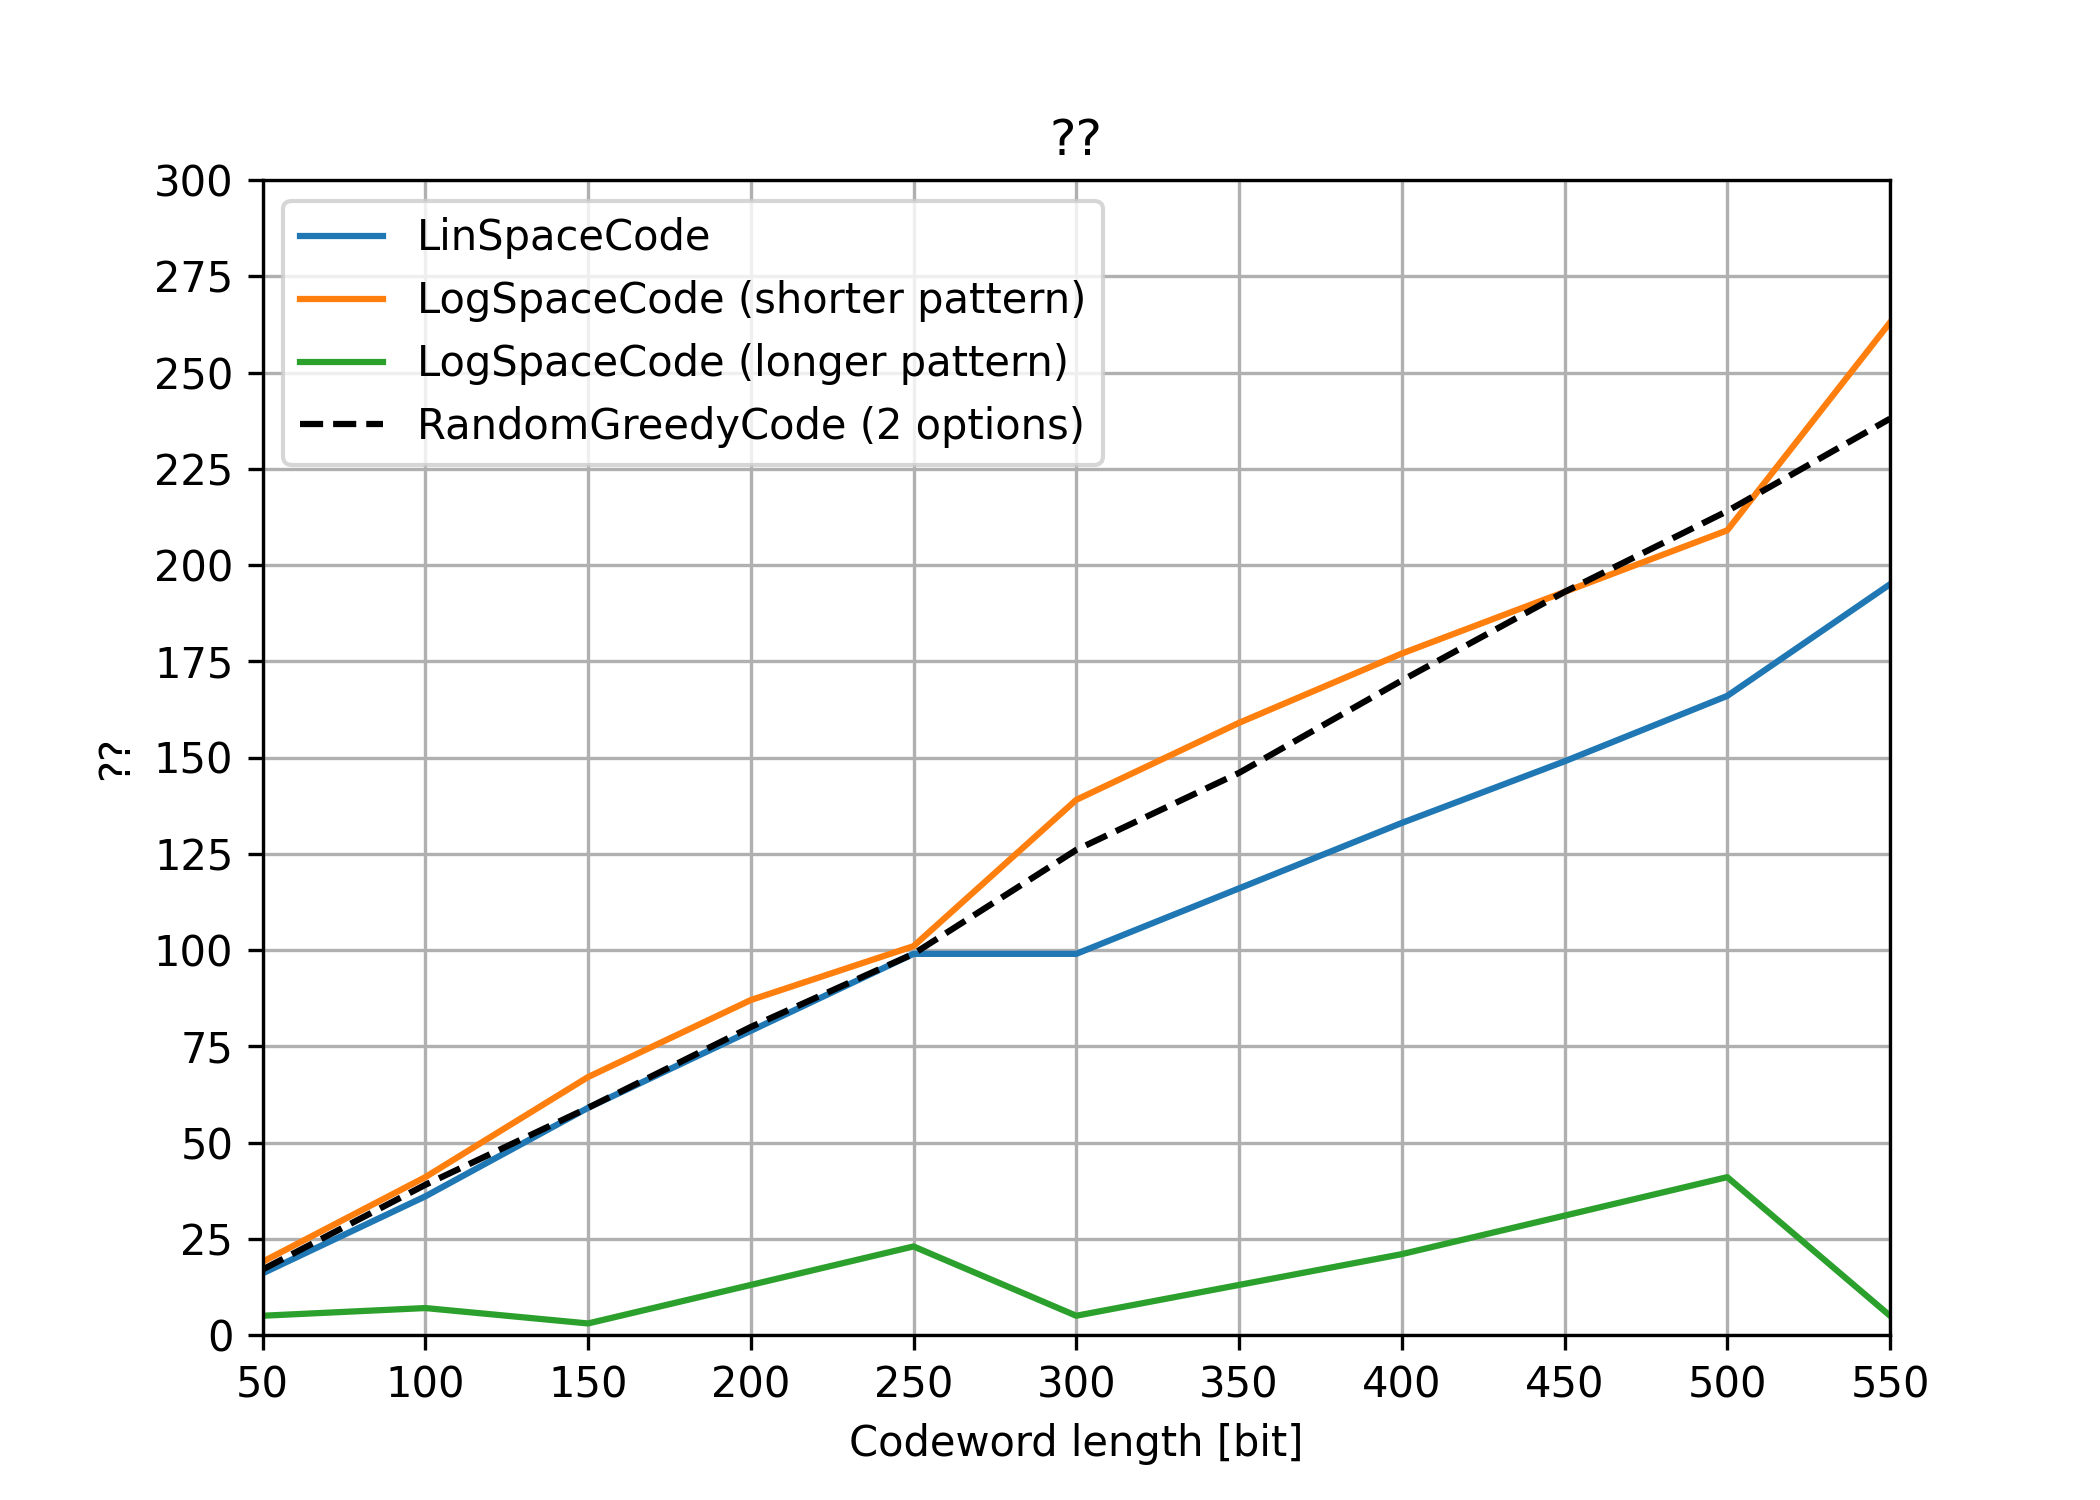
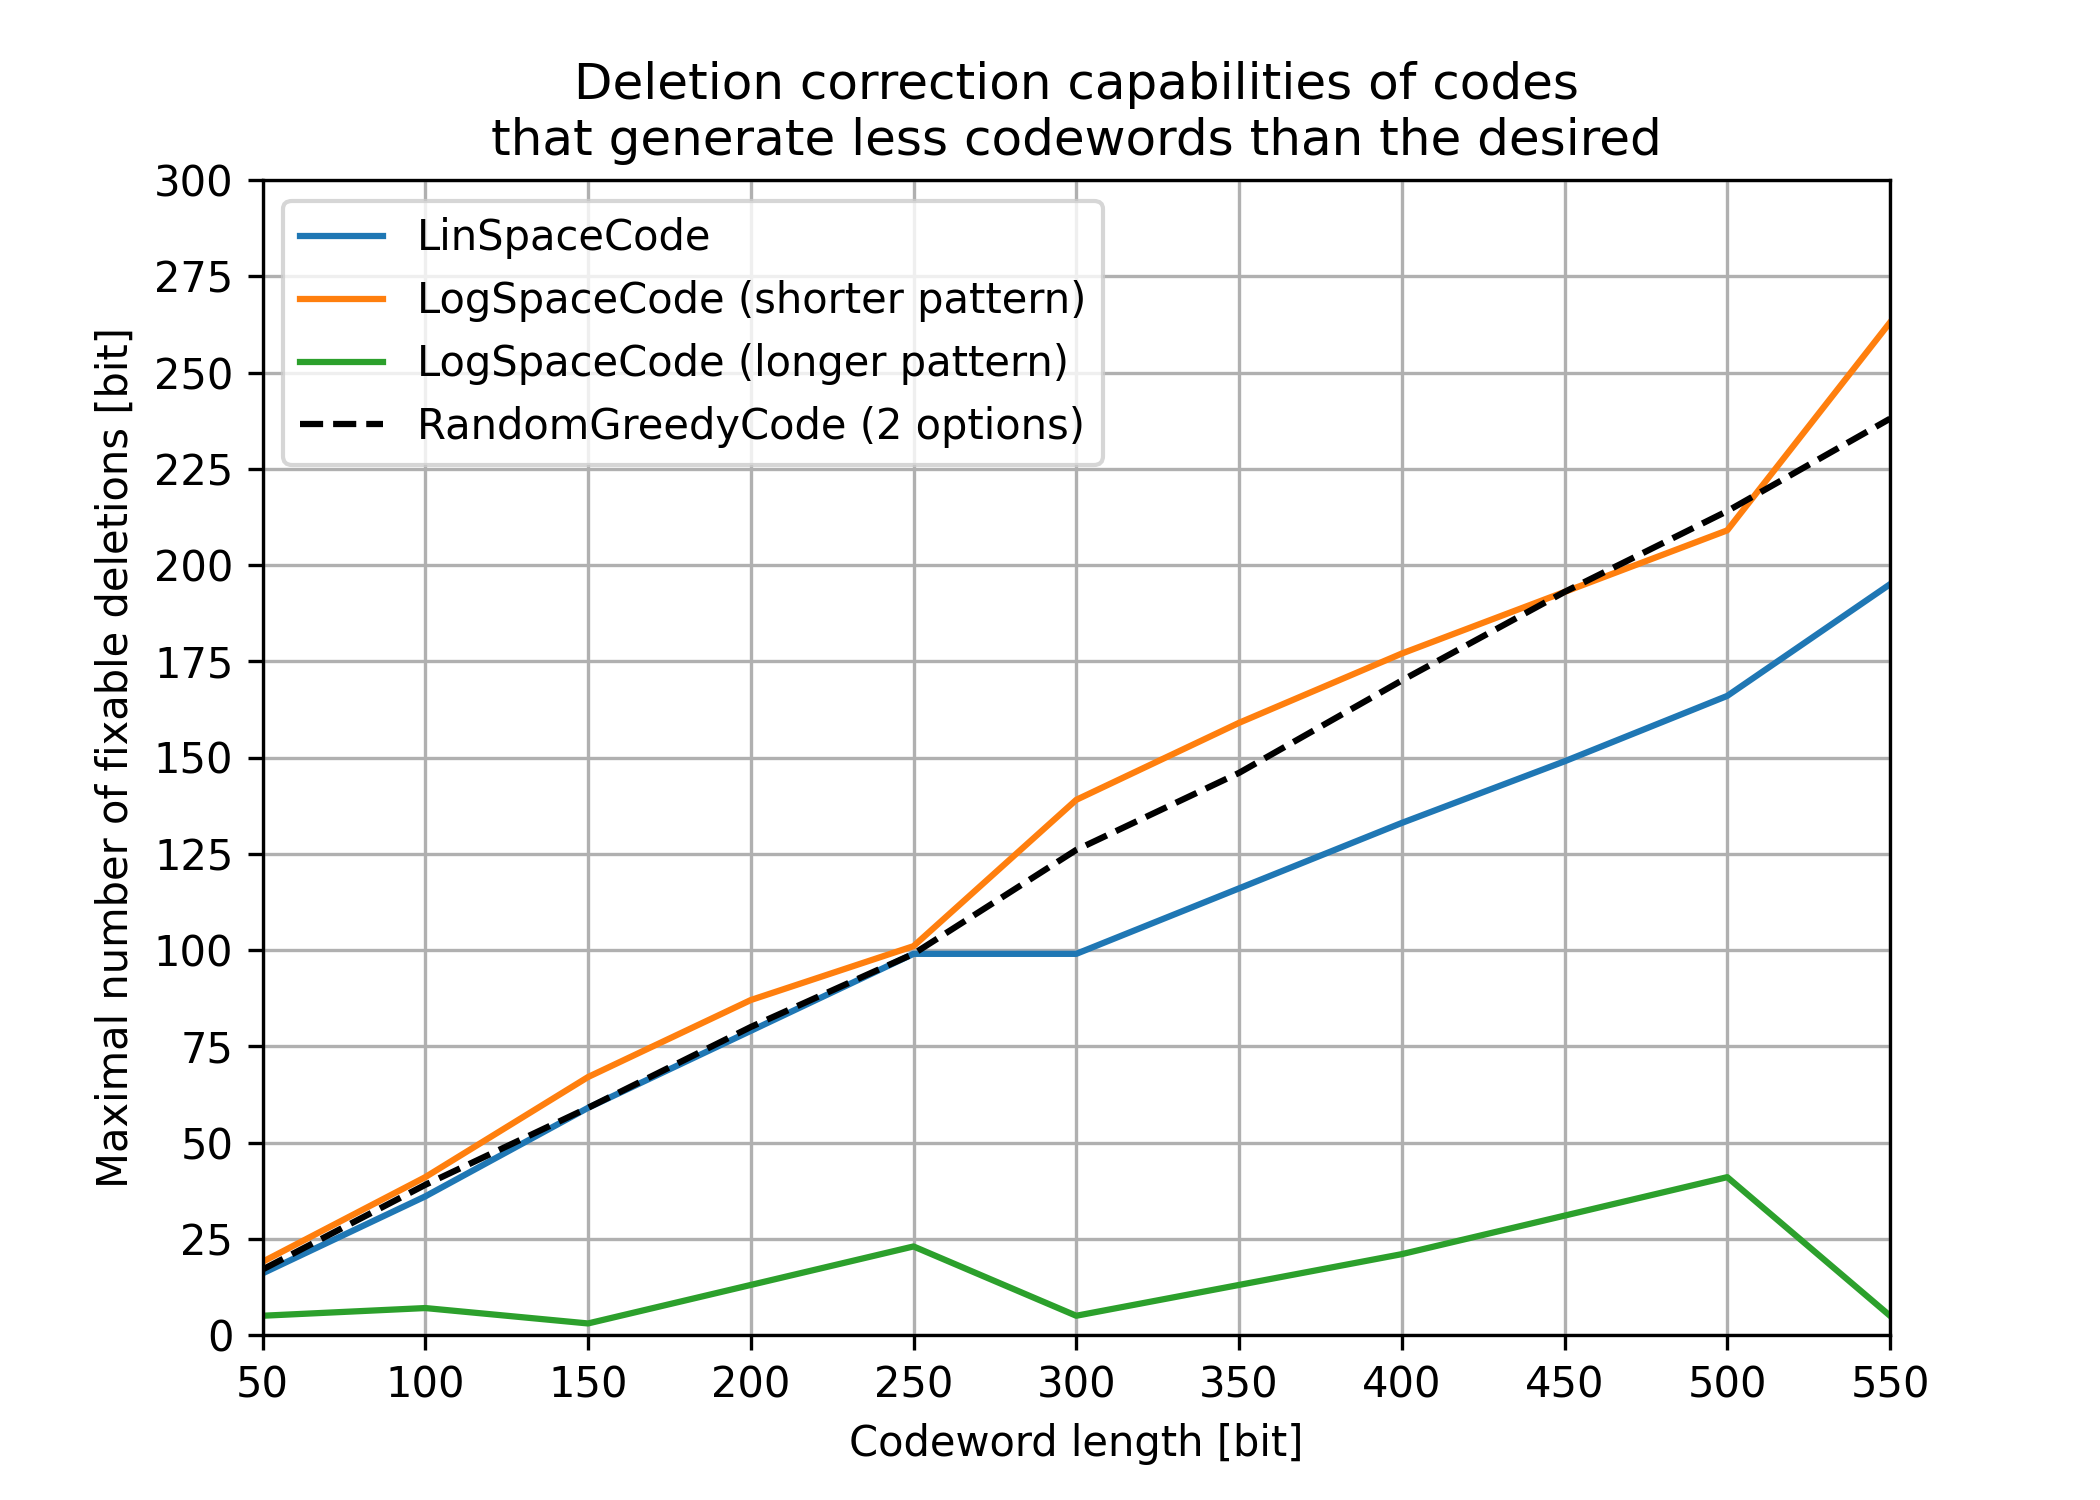
Update figure #2

Changed region(s): [[0.2476, 0.0307, 0.7738, 0.1227], [0.031, 0.2147, 0.0619, 0.7973]]

diff --git a/GenerateFigures.py b/GenerateFigures.py
@@ -72,7 +72,7 @@ def generate_figure2() -> None:
     plt.plot(lengths, values[-1], '--', color='black', label=labels[-1])
 
     print('=== Generating figure #2... ===')
-    plt.title('Deletion correction capabilities of codes that generate less codewords than the desired')
+    plt.title('Deletion correction capabilities of codes\nthat generate less codewords than the desired')
     plt.xlabel('Codeword length [bit]')
     plt.ylabel('Maximal number of fixable deletions [bit]')
     plt.xlim([lengths[0], lengths[-1]])
